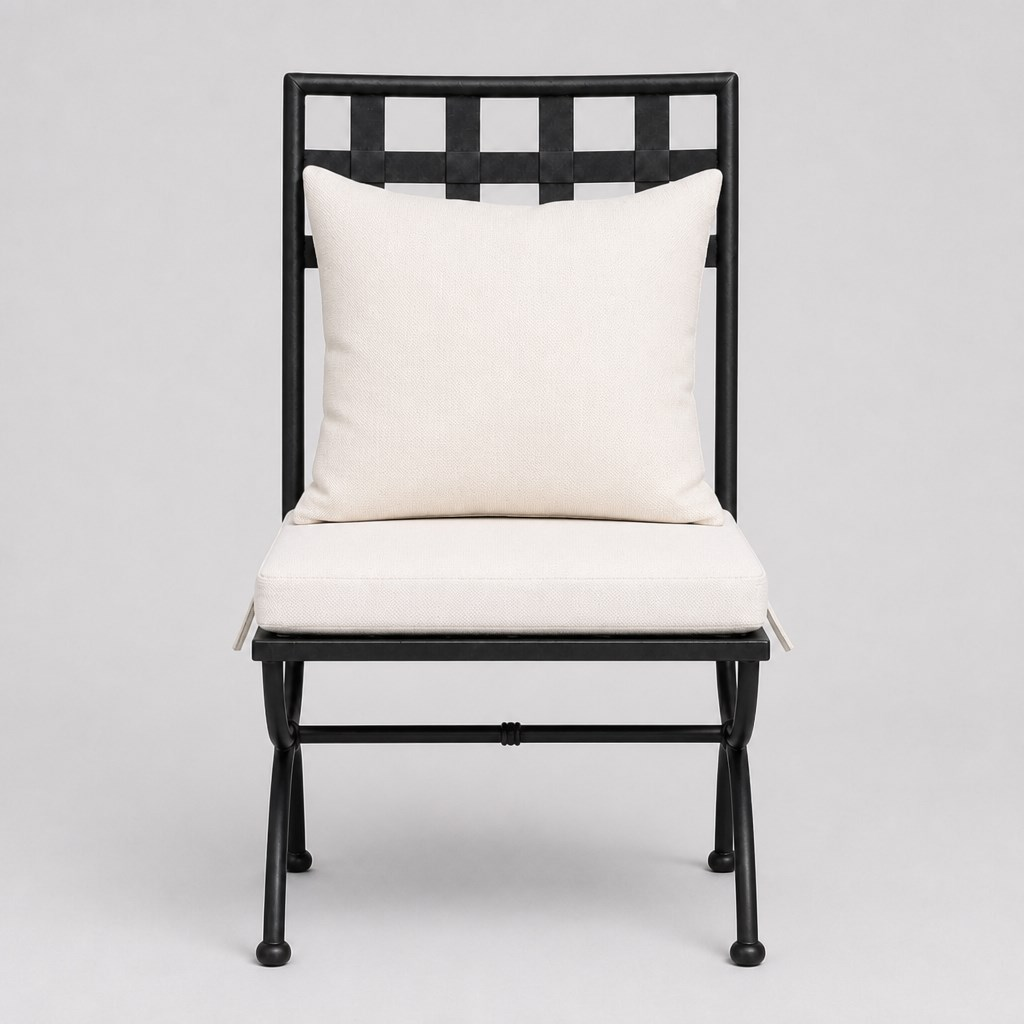
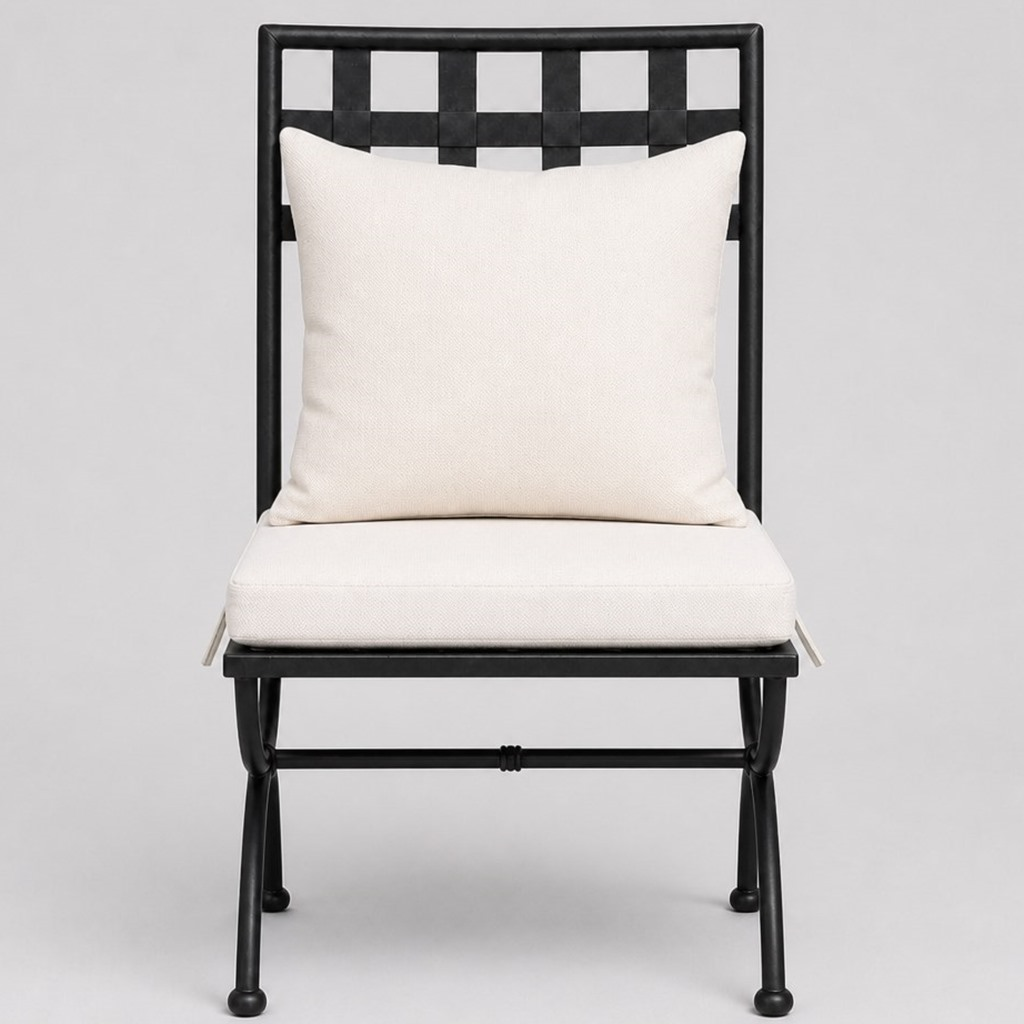
Remove deleted Moments photo and enlarge Type B chair product shots.
Drop umbrella-event-setup from the gallery after it was removed, and zoom the Type B chair photos so the piece reads closer to its real size.

Changed region(s): [[0.1875, 0.5312, 0.8125, 1.0], [0.25, 0.0, 0.75, 0.5312], [0.4375, 0.5, 0.5625, 0.5312]]

diff --git a/product.html b/product.html
@@ -8,7 +8,7 @@
   <link rel="preconnect" href="https://fonts.googleapis.com" />
   <link rel="preconnect" href="https://fonts.gstatic.com" crossorigin />
   <link href="https://fonts.googleapis.com/css2?family=Cormorant+Garamond:ital,wght@0,400;0,500;0,600;1,400&family=Jost:wght@300;400;500&display=swap" rel="stylesheet" />
-  <link rel="stylesheet" href="css/style.css?v=34" />
+  <link rel="stylesheet" href="css/style.css?v=35" />
   <script type="application/ld+json" id="productSchema"></script>
 </head>
 <body>
@@ -89,10 +89,10 @@
     <button class="btn btn--gold btn--small" id="sendQuote">request quote</button>
   </div>
 
-  <script src="js/products.js?v=34"></script>
-  <script src="js/product-utils.js?v=34"></script>
-  <script src="js/moments-data.js?v=34"></script>
-  <script src="js/product-detail.js?v=34"></script>
-  <script src="js/main.js?v=34"></script>
+  <script src="js/products.js?v=35"></script>
+  <script src="js/product-utils.js?v=35"></script>
+  <script src="js/moments-data.js?v=35"></script>
+  <script src="js/product-detail.js?v=35"></script>
+  <script src="js/main.js?v=35"></script>
 </body>
 </html>

diff --git a/moments.html b/moments.html
@@ -9,7 +9,7 @@
   <link rel="preconnect" href="https://fonts.googleapis.com" />
   <link rel="preconnect" href="https://fonts.gstatic.com" crossorigin />
   <link href="https://fonts.googleapis.com/css2?family=Cormorant+Garamond:ital,wght@0,400;0,500;0,600;1,400&family=Jost:wght@300;400;500&display=swap" rel="stylesheet" />
-  <link rel="stylesheet" href="css/style.css?v=34" />
+  <link rel="stylesheet" href="css/style.css?v=35" />
 </head>
 <body>
 
@@ -110,10 +110,10 @@
     <button class="btn btn--gold btn--small" id="sendQuote">request quote</button>
   </div>
 
-  <script src="js/products.js?v=34"></script>
-  <script src="js/product-utils.js?v=34"></script>
-  <script src="js/moments-data.js?v=34"></script>
-  <script src="js/moments.js?v=34"></script>
-  <script src="js/main.js?v=34"></script>
+  <script src="js/products.js?v=35"></script>
+  <script src="js/product-utils.js?v=35"></script>
+  <script src="js/moments-data.js?v=35"></script>
+  <script src="js/moments.js?v=35"></script>
+  <script src="js/main.js?v=35"></script>
 </body>
 </html>

diff --git a/items.html b/items.html
@@ -9,7 +9,7 @@
   <link rel="preconnect" href="https://fonts.googleapis.com" />
   <link rel="preconnect" href="https://fonts.gstatic.com" crossorigin />
   <link href="https://fonts.googleapis.com/css2?family=Cormorant+Garamond:ital,wght@0,400;0,500;0,600;1,400&family=Jost:wght@300;400;500&display=swap" rel="stylesheet" />
-  <link rel="stylesheet" href="css/style.css?v=34" />
+  <link rel="stylesheet" href="css/style.css?v=35" />
   <script type="application/ld+json">
   {
     "@context": "https://schema.org",
@@ -127,9 +127,9 @@
     <button class="btn btn--gold btn--small" id="sendQuote">request quote</button>
   </div>
 
-  <script src="js/products.js?v=34"></script>
-  <script src="js/product-utils.js?v=34"></script>
-  <script src="js/render-catalogue.js?v=34"></script>
-  <script src="js/main.js?v=34"></script>
+  <script src="js/products.js?v=35"></script>
+  <script src="js/product-utils.js?v=35"></script>
+  <script src="js/render-catalogue.js?v=35"></script>
+  <script src="js/main.js?v=35"></script>
 </body>
 </html>

diff --git a/index.html b/index.html
@@ -12,7 +12,7 @@
   <link rel="preconnect" href="https://fonts.googleapis.com" />
   <link rel="preconnect" href="https://fonts.gstatic.com" crossorigin />
   <link href="https://fonts.googleapis.com/css2?family=Cormorant+Garamond:ital,wght@0,400;0,500;0,600;1,400&family=Jost:wght@300;400;500&display=swap" rel="stylesheet" />
-  <link rel="stylesheet" href="css/style.css?v=34" />
+  <link rel="stylesheet" href="css/style.css?v=35" />
   <script type="application/ld+json">
   {
     "@context": "https://schema.org",
@@ -283,6 +283,6 @@
     <button class="btn btn--gold btn--small" id="sendQuote">request quote</button>
   </div>
 
-  <script src="js/main.js?v=34"></script>
+  <script src="js/main.js?v=35"></script>
 </body>
 </html>

diff --git a/contact.html b/contact.html
@@ -8,7 +8,7 @@
   <link rel="preconnect" href="https://fonts.googleapis.com" />
   <link rel="preconnect" href="https://fonts.gstatic.com" crossorigin />
   <link href="https://fonts.googleapis.com/css2?family=Cormorant+Garamond:ital,wght@0,400;0,500;0,600;1,400&family=Jost:wght@300;400;500&display=swap" rel="stylesheet" />
-  <link rel="stylesheet" href="css/style.css?v=34" />
+  <link rel="stylesheet" href="css/style.css?v=35" />
 </head>
 <body>
 
@@ -169,6 +169,6 @@
     <button class="btn btn--gold btn--small" id="sendQuote">request quote</button>
   </div>
 
-  <script src="js/main.js?v=34"></script>
+  <script src="js/main.js?v=35"></script>
 </body>
 </html>

diff --git a/privacy.html b/privacy.html
@@ -8,7 +8,7 @@
   <link rel="preconnect" href="https://fonts.googleapis.com" />
   <link rel="preconnect" href="https://fonts.gstatic.com" crossorigin />
   <link href="https://fonts.googleapis.com/css2?family=Cormorant+Garamond:ital,wght@0,400;0,500;0,600;1,400&family=Jost:wght@300;400;500&display=swap" rel="stylesheet" />
-  <link rel="stylesheet" href="css/style.css?v=34" />
+  <link rel="stylesheet" href="css/style.css?v=35" />
 </head>
 <body>
 
@@ -54,6 +54,6 @@
   </footer>
 
   <div class="toast" id="toast"></div>
-  <script src="js/main.js?v=34"></script>
+  <script src="js/main.js?v=35"></script>
 </body>
 </html>

diff --git a/terms.html b/terms.html
@@ -8,7 +8,7 @@
   <link rel="preconnect" href="https://fonts.googleapis.com" />
   <link rel="preconnect" href="https://fonts.gstatic.com" crossorigin />
   <link href="https://fonts.googleapis.com/css2?family=Cormorant+Garamond:ital,wght@0,400;0,500;0,600;1,400&family=Jost:wght@300;400;500&display=swap" rel="stylesheet" />
-  <link rel="stylesheet" href="css/style.css?v=34" />
+  <link rel="stylesheet" href="css/style.css?v=35" />
 </head>
 <body>
 
@@ -53,6 +53,6 @@
   </footer>
 
   <div class="toast" id="toast"></div>
-  <script src="js/main.js?v=34"></script>
+  <script src="js/main.js?v=35"></script>
 </body>
 </html>

diff --git a/js/moments-data.js b/js/moments-data.js
@@ -45,13 +45,6 @@ window.RUMI_MOMENTS = [
     products: ["french-black-day-bed", "french-wave-umbrella"]
   },
   {
-    id: "umbrella-event-setup",
-    file: "umbrella-event-setup.jpg",
-    title: "Umbrella in place",
-    caption: "A French wave umbrella set for a corporate Christmas activation.",
-    products: ["french-wave-umbrella"]
-  },
-  {
     id: "dessert-buffet-tiers",
     file: "dessert-buffet-tiers.jpg",
     title: "Dessert buffet tiers",

diff --git a/js/product-utils.js b/js/product-utils.js
@@ -18,7 +18,7 @@ window.RUMI.esc = function (str) {
 };
 
 /* Bump when product photos are re-shot so browsers pick up the new files. */
-window.RUMI.assetVersion = "26";
+window.RUMI.assetVersion = "27";
 
 /* Moments gallery helpers — tagged real-event photos linked to hire products. */
 window.RUMI.momentsForProduct = function (slug) {
